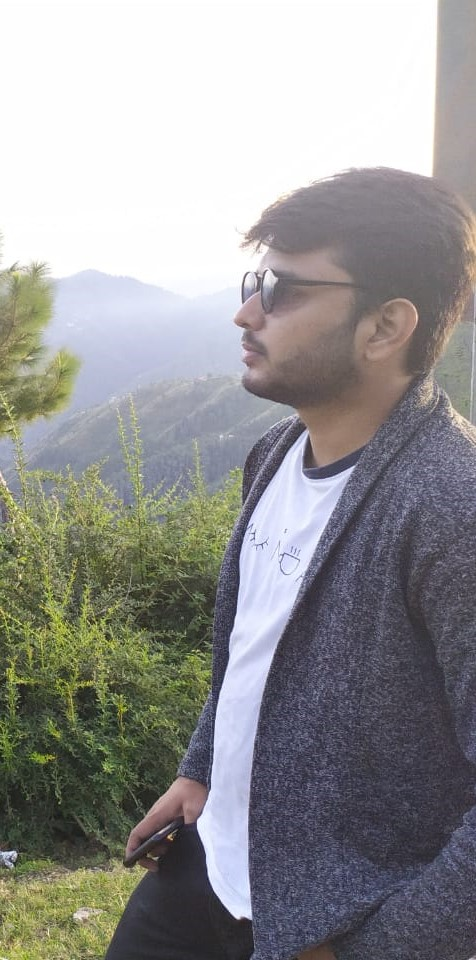
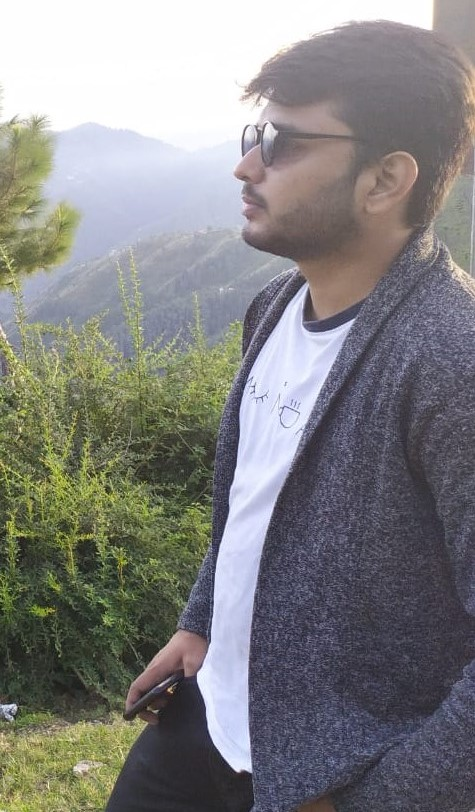
New Update

diff --git a/packages/css/styles.css b/packages/css/styles.css
@@ -138,7 +138,7 @@ a {
 
 img {
   width: 100%;
-  height: auto;
+  height: 85%;
 }
 
 /*==================== REUSABLE CSS CLASSES ====================*/
